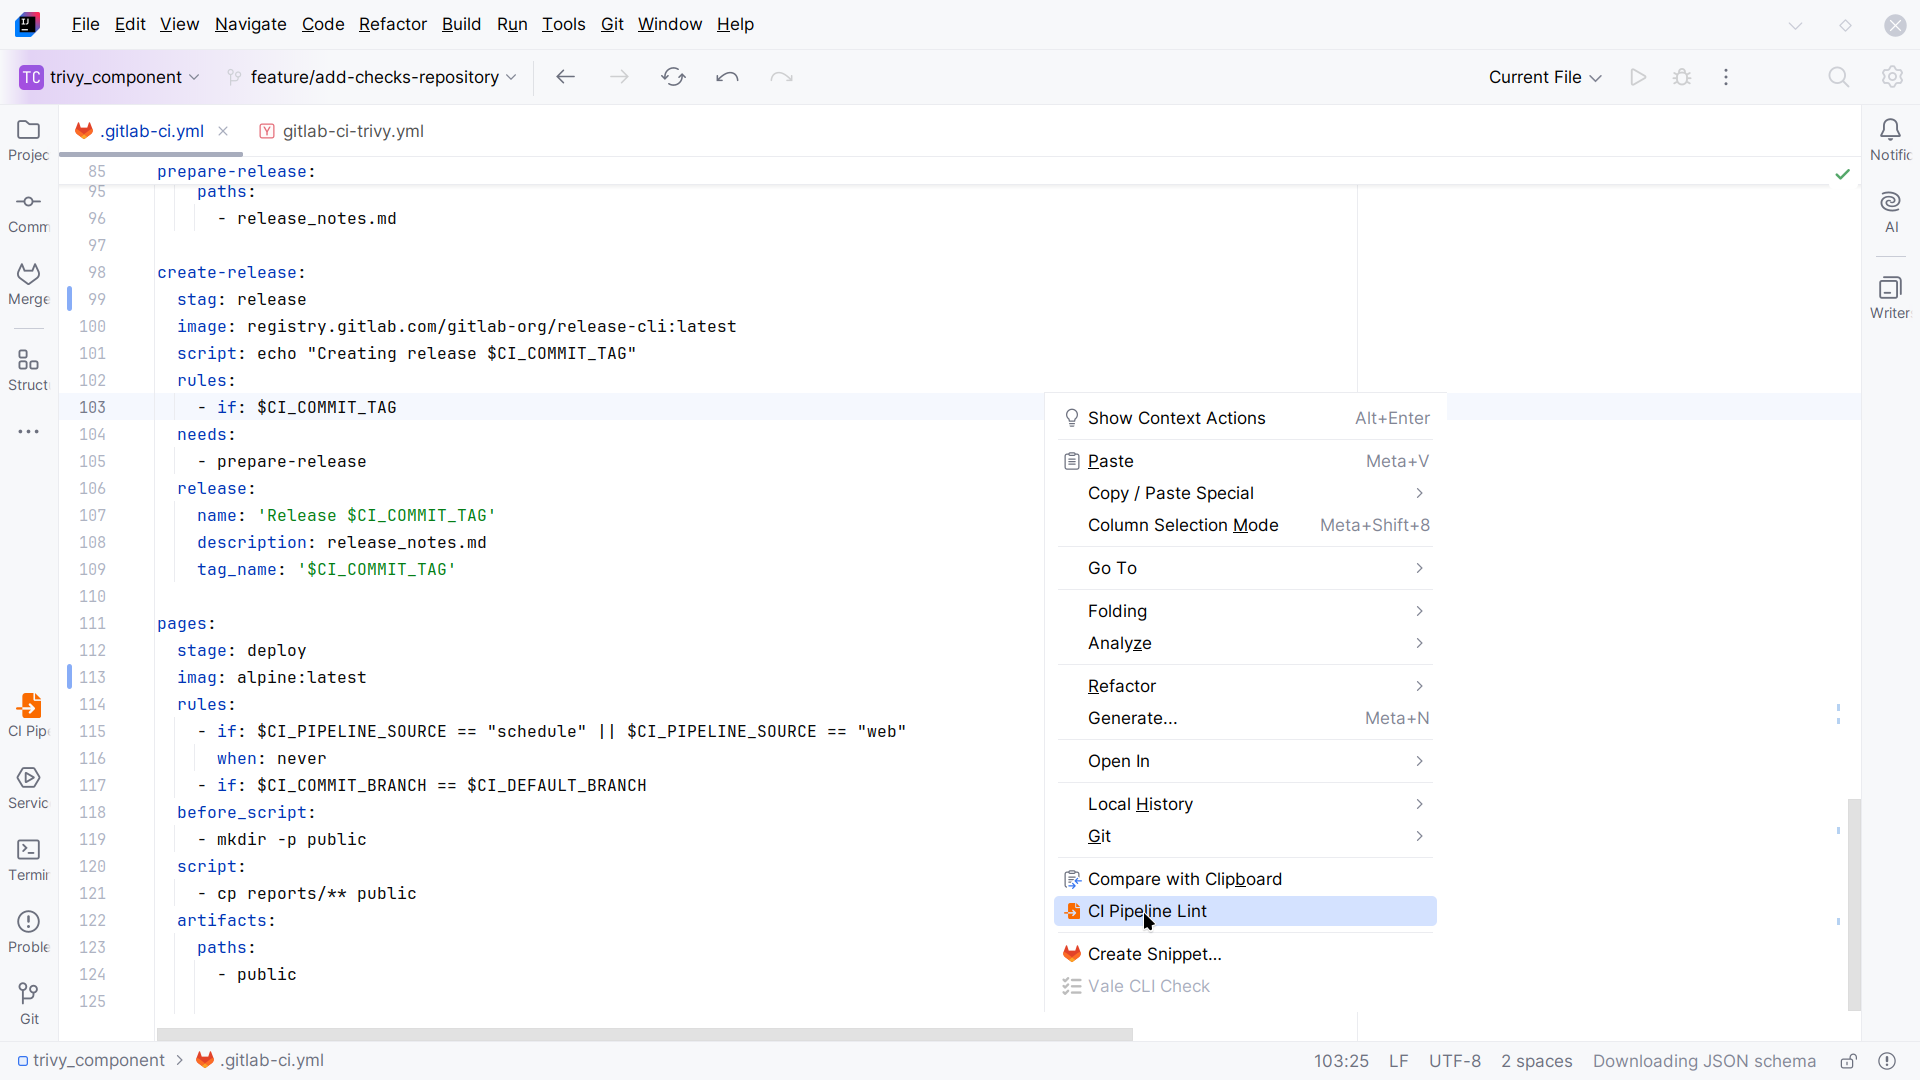
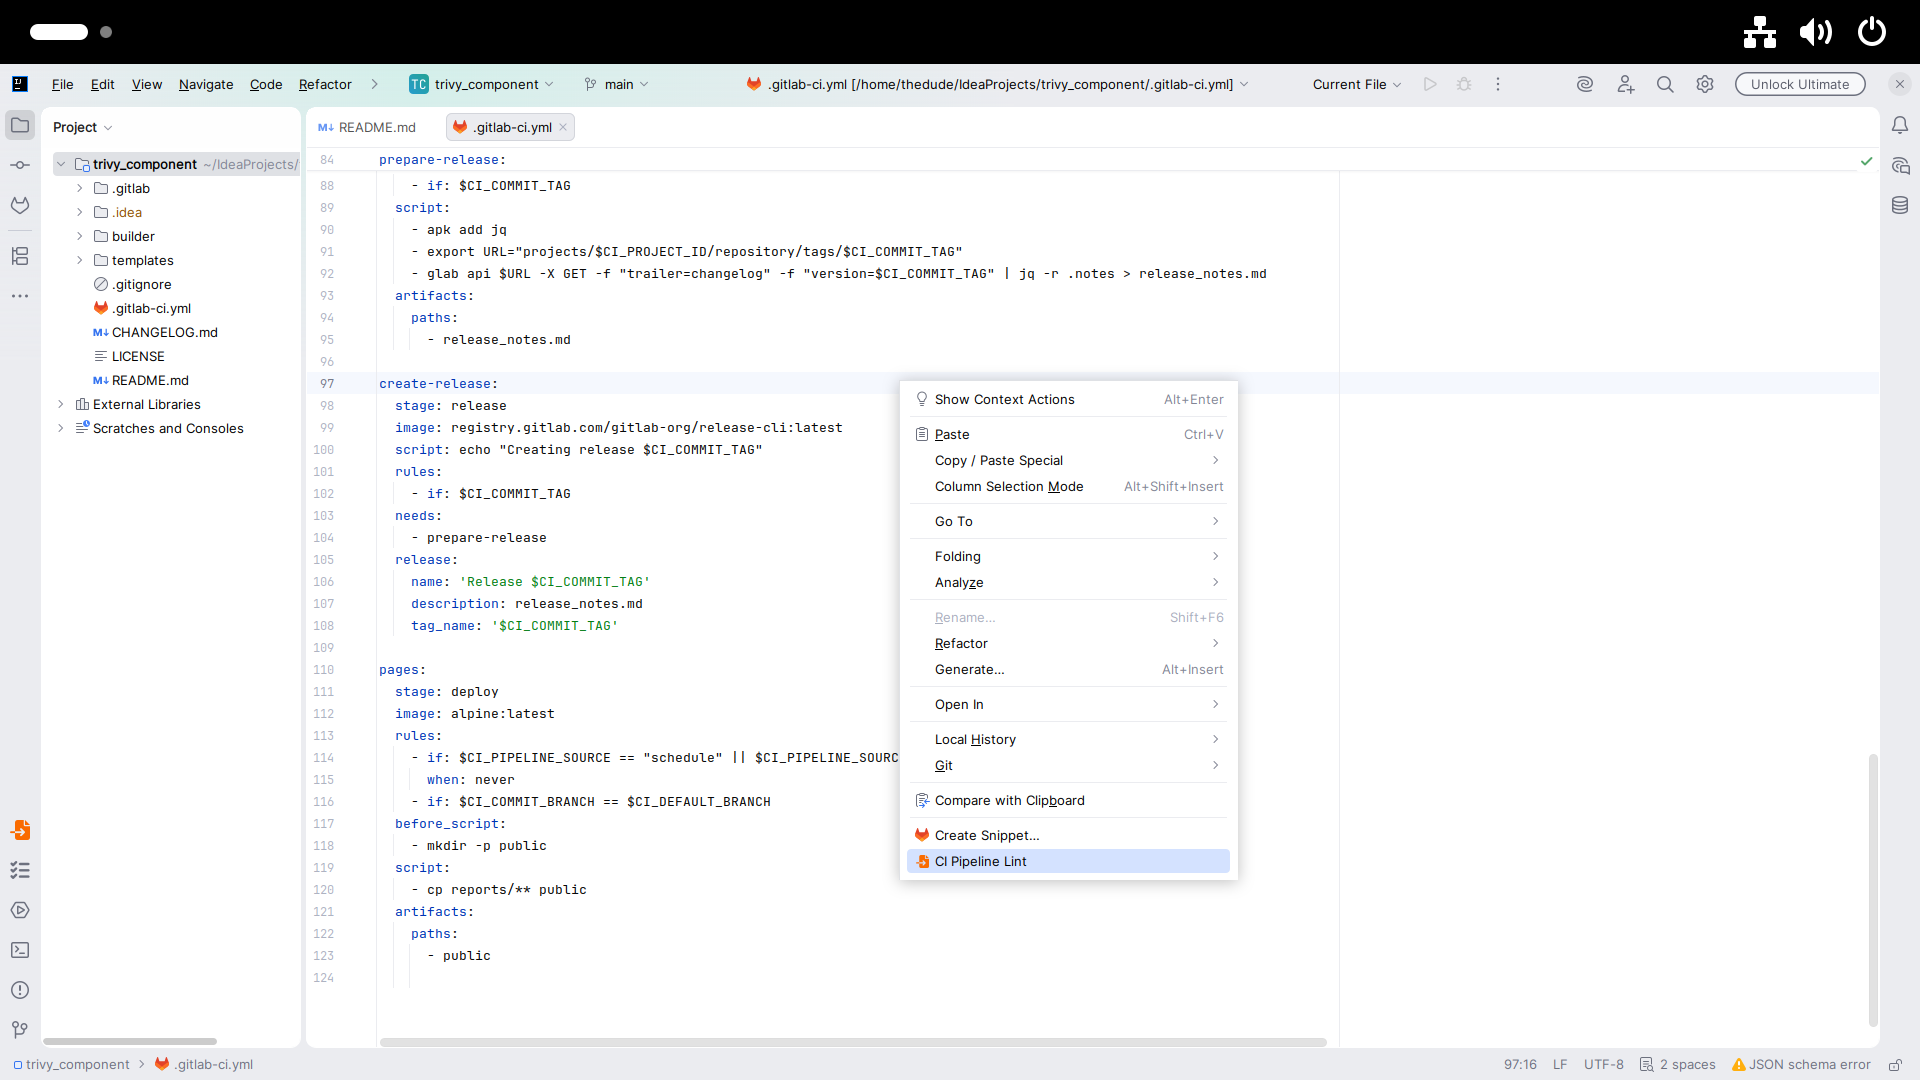
Show notification, prompt for Project ID on notification action. Update docs. Cleanup unused files.

diff --git a/src/main/java/org/ideplugins/ci_pipeline_lint/actions/LintYamlToolsMenuAction.java b/src/main/java/org/ideplugins/ci_pipeline_lint/actions/LintYamlToolsMenuAction.java
@@ -4,11 +4,13 @@ import com.intellij.notification.NotificationType;
 import com.intellij.openapi.actionSystem.AnActionEvent;
 import com.intellij.openapi.project.DumbService;
 import com.intellij.openapi.project.Project;
+import com.intellij.openapi.ui.Messages;
 import com.intellij.openapi.vfs.VirtualFile;
 import com.intellij.psi.PsiFile;
 import com.intellij.psi.PsiManager;
 import com.intellij.psi.search.FilenameIndex;
 import com.intellij.psi.search.GlobalSearchScope;
+import org.ideplugins.ci_pipeline_lint.settings.ProjectGitSettingsState;
 import org.jetbrains.annotations.NotNull;
 
 import java.util.ArrayList;
@@ -53,14 +55,33 @@ public class LintYamlToolsMenuAction extends BaseAction {
         }
 
         if (isProjectIdMissing(project)) {
-            // Prompt user to enter project id before attempting to lint
-            promptForProjectId(project);
+            displayNotificationWithAction(NotificationType.WARNING,
+                    "Couldn't determine Project ID",
+                    "Please setup your Project ID",
+                    ()->{
+                        String input = Messages.showInputDialog(project,
+                                "Could not detect GitLab project ID automatically.\nPlease enter Project ID:",
+                                "Enter Project ID",
+                                null);
+                        if (input != null && !input.isBlank()) {
+                            ProjectGitSettingsState projectState = project.getService(ProjectGitSettingsState.class);
+                            projectState.projectId = input.trim();
+
+                            doLintPipelineFile(event, project, files);
+                        }
+
+                    }
+            );
             return;
         }
 
+        doLintPipelineFile(event, project, files);
+    }
+
+    private void doLintPipelineFile(@NotNull AnActionEvent event, Project project, List<VirtualFile> files) {
         DumbService dumbService = DumbService.getInstance(Objects.requireNonNull(project));
         if (dumbService.isDumb()){
-            dumbService.runWhenSmart(() -> lintPipelineFile(project,files , event));
+            dumbService.runWhenSmart(() -> lintPipelineFile(project, files, event));
         } else {
             lintPipelineFile(project, files, event);
         }

diff --git a/src/main/java/org/ideplugins/ci_pipeline_lint/actions/LintYamlPopupAction.java b/src/main/java/org/ideplugins/ci_pipeline_lint/actions/LintYamlPopupAction.java
@@ -4,7 +4,9 @@ import com.intellij.notification.NotificationType;
 import com.intellij.openapi.actionSystem.AnActionEvent;
 import com.intellij.openapi.project.Project;
 import com.intellij.openapi.actionSystem.CommonDataKeys;
+import com.intellij.openapi.ui.Messages;
 import com.intellij.psi.PsiFile;
+import org.ideplugins.ci_pipeline_lint.settings.ProjectGitSettingsState;
 import org.jetbrains.annotations.NotNull;
 
 import static org.ideplugins.ci_pipeline_lint.actions.ActionHelper.displayNotificationWithAction;
@@ -29,8 +31,22 @@ public class LintYamlPopupAction extends BaseAction {
             if (areHostAndTokenMissing(project)) {
                 displayNotificationWithAction(NotificationType.WARNING, "Please setup your Gitlab Host and Token");
             } else if (isProjectIdMissing(project)) {
-                // prompt user to enter project id when host and token are configured
-                promptForProjectId(project);
+                displayNotificationWithAction(NotificationType.WARNING,
+                        "Couldn't determine Project ID",
+                        "Please setup your Project ID",
+                        ()->{
+                            String input = Messages.showInputDialog(project,
+                                    "Could not detect GitLab project ID automatically.\nPlease enter Project ID:",
+                                    "Enter Project ID",
+                                    null);
+                            if (input != null && !input.isBlank()) {
+                                ProjectGitSettingsState projectState = project.getService(ProjectGitSettingsState.class);
+                                projectState.projectId = input.trim();
+
+                                doLintInBackground(event, psiFile);
+                            }
+                        }
+                );
             } else {
                 doLintInBackground(event, psiFile);
             }

diff --git a/src/main/java/org/ideplugins/ci_pipeline_lint/settings/YamlPipelineLintSettingsConfigurable.java b/src/main/java/org/ideplugins/ci_pipeline_lint/settings/YamlPipelineLintSettingsConfigurable.java
@@ -8,10 +8,12 @@ import org.ideplugins.ci_pipeline_lint.service.PasswordSafeService;
 import org.jetbrains.annotations.Nullable;
 
 import javax.swing.*;
+import java.util.ResourceBundle;
 
 public class YamlPipelineLintSettingsConfigurable implements Configurable, Constants {
 
     private YamlPipelineLintSettingsComponent settingsComponent;
+    private final ResourceBundle BUNDLE = ResourceBundle.getBundle(PLUGIN_BUNDLE);
 
     public YamlPipelineLintSettingsConfigurable(){
 
@@ -43,10 +45,29 @@ public class YamlPipelineLintSettingsConfigurable implements Configurable, Const
 
     @Override
     public void apply() throws ConfigurationException {
+        validateValues();
         var settingsState = ApplicationManager.getApplication().getService(YamlPipelineLintSettingsState.class);
         settingsState.gitlabHost = settingsComponent.getGitlabHost();
         PasswordSafeService.storeToken(settingsComponent.getGitlabToken());
         settingsState.gitlabToken = settingsComponent.getGitlabToken();
+    }
+
+    private void validateValues() throws ConfigurationException {
+        StringBuilder errors = new StringBuilder();
+        if (settingsComponent.getGitlabHost().isEmpty()) {
+            errors.append(BUNDLE.getString("ci.pipeline.lint.plugin.invalid.settings.host.empty"));
+        }
+
+        if (settingsComponent.getGitlabToken().isEmpty()) {
+            errors.append((errors.isEmpty() ? "" : "\n"))
+                    .append(BUNDLE.getString("ci.pipeline.lint.plugin.invalid.settings.token.empty"));
+        }
+
+        if (!errors.isEmpty()) {
+            throw new ConfigurationException(
+                    errors.toString(),
+                    BUNDLE.getString("ci.pipeline.lint.plugin.invalid.settings.title"));
+        }
     }
 
     @Override

diff --git a/src/main/java/org/ideplugins/ci_pipeline_lint/actions/BaseAction.java b/src/main/java/org/ideplugins/ci_pipeline_lint/actions/BaseAction.java
@@ -5,7 +5,6 @@ import com.intellij.openapi.actionSystem.ActionUpdateThread;
 import com.intellij.openapi.actionSystem.AnAction;
 import com.intellij.openapi.actionSystem.AnActionEvent;
 import com.intellij.openapi.application.ApplicationManager;
-import com.intellij.openapi.ui.Messages;
 import com.intellij.openapi.project.Project;
 import com.intellij.psi.PsiFile;
 import com.intellij.util.FileContentUtil;
@@ -44,19 +43,6 @@ public abstract class BaseAction extends AnAction implements Constants {
         ProjectGitSettingsState projectState = project == null ? null : project.getService(ProjectGitSettingsState.class);
         String projectId = projectState != null ? projectState.projectId : "";
         return projectId == null || projectId.isBlank();
-    }
-
-    protected void promptForProjectId(Project project) {
-        ApplicationManager.getApplication().invokeLater(() -> {
-            String input = Messages.showInputDialog(project,
-                    "Could not detect GitLab project ID automatically.\nPlease enter Project ID:",
-                    "Enter Project ID",
-                    null);
-            if (input != null && !input.isBlank()) {
-                ProjectGitSettingsState projectState = project.getService(ProjectGitSettingsState.class);
-                projectState.projectId = input.trim();
-            }
-        });
     }
 
     @RequiresBackgroundThread

diff --git a/src/main/java/org/ideplugins/ci_pipeline_lint/gitlab/FetchGitlabVariables.java b/src/main/java/org/ideplugins/ci_pipeline_lint/gitlab/FetchGitlabVariables.java
@@ -29,7 +29,7 @@ public class FetchGitlabVariables {
     }
 
     private String fetchMarkdownContent() throws IOException {
-        String result = "";
+        String result;
         OkHttpClient client = new OkHttpClient();
         Request request = new Request.Builder()
                 .url(URL)
@@ -39,9 +39,7 @@ public class FetchGitlabVariables {
             if (!response.isSuccessful()) {
                 throw new IOException("Failed to fetch content: " + response);
             }
-            if (response.body() != null) {
-                result = response.body().string();
-            }
+            result = response.body().string();
         }
         return result;
     }

diff --git a/Writerside/topics/starter-topic.md b/Writerside/topics/starter-topic.md
@@ -34,20 +34,23 @@ and paste it on the IDE plugin repositories via <kbd>Plugins</kbd> -> <kbd>⚙</
 ## Configuration
 
 The plugin requires a Gitlab token and a Project ID to work with the Gitlab CI Lint API.
-To set up this configuration go to 
+The plugin tries to detect the project id from the git remote and fallbacks to ask the user the Project ID when it can't find it.
+To set up Gitlab host and token go to 
 
 <kbd>Settings</kbd> -> <kbd>Tools</kbd> -> <kbd>CI Pipeline Lint</kbd> 
 
 ![Plugin settings](plugin_settings.png){border-effect="line"}
 
 1. Gitlab host: default to https://gitlab.com , change it if using a private or self-hosted instance
-2. Gitlab Project ID: To obtain the Project ID go to a gitlab repository you own and at the top, below the project name the Project ID is displayed, there is also a copy button next to the Project ID. Gitlab 16.0 [deprecated](https://docs.gitlab.com/ee/api/lint.html#validate-the-ci-yaml-configuration-deprecated) the global lint endpoint, and now is per project, that's why a Project ID is now required.
 3. Access token: create a Gitlab personal access token with api access, the link on the label will open the browser at [https://gitlab.com/-/user_settings/personal_access_tokens](https://gitlab.com/-/user_settings/personal_access_tokens) to create a token. 
 
 Alternatively, whenever the plugin is invoked with incomplete configuration, the settings can be entered by clicking on the notification link:
 
 ![Plugin settings from notification](plugin_settings_when_not_configured.png){border-effect="line"}
 
+When the plugin cant detect the Project ID using the token and Gitlab API from the git remote or from reading `.git/config` falls back to show a notification with an action to trigger the prompt for the Project ID.
+
+![Prompt for Project ID when not detected from git remote](plugin_settings_project_id_not_detected.png){border-effect="line"}
 
 ## Usage
 

diff --git a/Writerside/topics/changelog.md b/Writerside/topics/changelog.md
@@ -4,6 +4,9 @@ This document provides an overview of the changes by release.
 
 ## Release notes
 
+### 0.0.21
+* Implements [#8](https://gitlab.com/pablomxnl/gitlab-yaml-pipeline-lint/-/work_items/8) Autodetect gitlab project ID with gitlab api
+
 ### 0.0.20
 * Remove usage of internal classes for 2026.2 EAP compatibility
 
